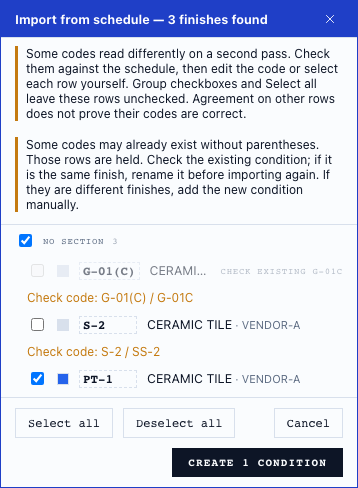
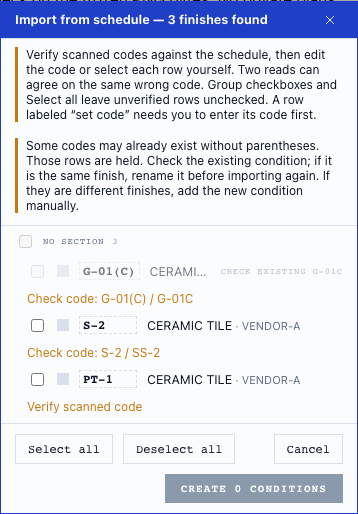
Require scanned-code review and surface omitted numeric rows (#500)

diff --git a/web/src/lib/scheduleRead.ts b/web/src/lib/scheduleRead.ts
@@ -21,6 +21,7 @@
 import { FOREIGN_HDR, extractTables, isNonFinishSchedule, readFinishMarquee, traceFinishMarquee, type Bbox, type GraphSpan, type MarqueeRead, type TableRow } from "./sheetgraph.ts";
 import { FINISH_SECTION_CATEGORY, type FinishSection } from "./finishSections.ts";
 import { normalizeNotUsed } from "./notUsed.ts";
+import { finishCodeOk } from "./finishCode.ts";
 import { repairKey } from "./ocr/wordClean.ts";
 import type { Category, CategorySource, ScheduleRow, Token } from "./scheduleRows.ts";
 
@@ -247,10 +248,55 @@ const overlapFrac = (a: Bbox, b: Bbox): number => {
  *  section (sheetgraph.ts ExtractOpts.resetAtBlankBand); the vector read
  *  never sets it. */
 export function readScheduleSpans(spans: GraphSpan[], opts?: { ocr?: boolean }): ScheduleRead {
-  return readOf(readFinishMarquee({ key: "crop", spans }, { ocr: !!opts?.ocr }), spans, !!opts?.ocr);
+  const parsed = readFinishMarquee({ key: "crop", spans }, { ocr: !!opts?.ocr });
+  const original = readOf(parsed, spans, !!opts?.ocr);
+  if (!opts?.ocr || !parsed || parsed.kind !== "table" || "refused" in original) return original;
+  return recoverNumericCodeRows(parsed, original, spans);
 }
 
-/** @internal Tests only: readScheduleSpans
+/** A numeric-only first read (88-2) is not a finish key, so the parser
+ * can absorb its description into the preceding row. A code-shaped second
+ * read can locate that row, but cannot establish its identity. Reparse only
+ * inside an already accepted finish table, keeping its existing keys, then
+ * expose each recovered row with an EMPTY code: the person must enter it.
+ * No alternate becomes a condition tag and no input span is rewritten. */
+function recoverNumericCodeRows(parsed: Extract<MarqueeRead, { kind: "table" }>, original: ScheduleRead, spans: GraphSpan[]): ScheduleRead {
+  const table = parsed.table;
+  const keyBoxes = table.rows.flatMap(r => r.cells[table.headers[0]] ? [r.cells[table.headers[0]].bbox] : []);
+  if (!keyBoxes.length) return original;
+  const left = Math.min(...keyBoxes.map(b => b[0]));
+  const right = Math.max(...keyBoxes.map(b => b[2]));
+  const inside = (s: GraphSpan, b: Bbox) => s.x + s.w / 2 >= b[0] && s.x + s.w / 2 <= b[2] && s.y + s.h / 2 >= b[1] && s.y + s.h / 2 <= b[3];
+  const candidates = spans.filter(s => /^[0-9]+[-.][0-9]+$/.test(s.str.trim())
+    && !!s.codeAlternate && finishCodeOk(s.codeAlternate) && /[A-Z]/i.test(s.codeAlternate)
+    && s.x + s.w / 2 >= left && s.x + s.w / 2 <= right
+    && inside(s, table.region));
+  if (!candidates.length) return original;
+  const candidateSet = new Set(candidates);
+  const reparsed = readFinishMarquee({ key: "crop", spans: spans.map(s => candidateSet.has(s) ? { ...s, str: s.codeAlternate! } : s) }, { ocr: true });
+  if (!reparsed || reparsed.kind !== "table") return original;
+  const read = readOf(reparsed, spans, true);
+  if ("refused" in read) return original;
+  const recovered = new Map<number, GraphSpan>();
+  reparsed.table.rows.forEach((r, i) => {
+    const box = r.cells[reparsed.table.headers[0]]?.bbox;
+    const candidate = box && candidates.find(s => inside(s, box));
+    if (candidate) recovered.set(i, candidate);
+  });
+  // Refuse a reparse that loses, reorders or renames an established identity.
+  const oldKeys = original.rows.map(r => r.finish_tag);
+  const keptKeys = read.rows.filter((_, i) => !recovered.has(i)).map(r => r.finish_tag);
+  if (!recovered.size || JSON.stringify(oldKeys) !== JSON.stringify(keptKeys)) return original;
+  return { ...read, rows: read.rows.map((row, i) => {
+    const candidate = recovered.get(i);
+    if (!candidate) return row;
+    const result = { ...row, finish_tag: "", suggested: false, code_checks: [{ first: candidate.str, second: candidate.codeAlternate! }] };
+    delete result.read_as;
+    return result;
+  }) };
+}
+
+/** @internal Tests only: the primary read (before numeric-row recovery)
  * plus how the marquee rules got there — the table's rows with their
  * provenance kept (`_y`, `_pass1`, `_pass1Key`, `_newRule`, `_ungluedFrom`),
  * the lines they consumed, and the per-line decisions. */
@@ -284,6 +330,7 @@ function readOf(r: MarqueeRead | null, spans: GraphSpan[], ocr: boolean): Schedu
   const rows = t.rows.map((x) => {
     const row = toRow(x, t.headers[0], { ocr });
     if (ocr) {
+      row.ocr_code = true;
       const fix = repairKey(x.cells[t.headers[0]]?.text ?? "", row.finish_tag);
       row.finish_tag = fix.key;
       if (fix.readAs) row.read_as = fix.readAs;

diff --git a/web/test/ocrCodeCheck.test.ts b/web/test/ocrCodeCheck.test.ts
@@ -91,3 +91,37 @@ test("removing a repeated clipped fragment keeps its unresolved warning on the s
   ]);
   assert.deepEqual(words, [{ str: "S-2", x: 8, y: 20, w: 34, h: 10, codeAlternate: "" }]);
 });
+
+test("stable wrong reads still require individual review, irrespective of confidence", async () => {
+  const [same] = await checkCodes([read("P-110")], {}, () => ({}), async () => [read("P-110")]);
+  assert.equal(same.codeAlternate, undefined);
+  const spans = build({ cols: MMC, items: [M(same.text, "CERAMIC TILE", "VENDOR-A", "GREY"), M("PT-1", "PAINT", "VENDOR-B", "WHITE")] });
+  const rows = readScheduleSpans(spans, { ocr: true }).rows;
+  assert.ok(rows.every(r => r.ocr_code && codeCheckShown(r, r.finish_tag)));
+  assert.deepEqual([...setPicked(new Set(), rows.map(r => r.finish_tag), k => !codeCheckShown(rows.find(r => r.finish_tag === k)!, k), true)], []);
+  assert.ok(rows.every(r => !('ocr_code' in rowToSeed(r, 0))));
+  assert.ok(readScheduleSpans(spans).rows.every(r => !r.ocr_code && !codeCheckShown(r, r.finish_tag)));
+});
+
+test("numeric misread inside a finish key column becomes an unnamed review row, never the alternate identity", () => {
+  const spans = build({ cols: MMC, items: [M("PT-1", "PAINT", "VENDOR-A", "WHITE"), M("88-2", "SOLID SURFACE", "VENDOR-B", "GREY"), M("CT-1", "CERAMIC TILE", "VENDOR-C", "BEIGE")] });
+  const numeric = spans.find(s => s.str === '88-2')!; numeric.codeAlternate = 'SS-2';
+  const before = structuredClone(spans);
+  const rows = readScheduleSpans(spans, { ocr: true }).rows;
+  assert.deepEqual(rows.map(r => r.finish_tag), ['PT-1', '', 'CT-1']);
+  assert.equal(rows[1].description, 'SOLID SURFACE');
+  assert.equal(rows[1].manufacturer, 'VENDOR-B');
+  assert.deepEqual(rows[1].code_checks, [{ first: '88-2', second: 'SS-2' }]);
+  assert.equal(rows[1].suggested, false);
+  assert.equal(evaluateTags([{ key: 'r', tag: rows[1].finish_tag }]).get('r')?.status, 'empty');
+  assert.deepEqual(spans, before);
+  assert.deepEqual(readScheduleSpans(spans).rows.map(r => r.finish_tag), ['PT-1', 'CT-1']);
+});
+
+test("numeric values in non-key cells and foreign schedules cannot create recovery rows", () => {
+  const spans = build({ cols: MMC, items: [M("PT-1", "PAINT", "88-2", "WHITE"), M("CT-1", "CERAMIC TILE", "VENDOR-C", "BEIGE")] });
+  spans.find(s => s.str === '88-2')!.codeAlternate = 'SS-2';
+  assert.deepEqual(readScheduleSpans(spans, { ocr: true }).rows.map(r => r.finish_tag), ['PT-1', 'CT-1']);
+  const foreign = [{ str: 'DOOR SCHEDULE', x: 100, y: -40, w: 180, h: 15 }, ...spans];
+  assert.equal(readScheduleSpans(foreign, { ocr: true }).rows.length, 0);
+});

diff --git a/web/bench/ocr-codes/worker.ts b/web/bench/ocr-codes/worker.ts
@@ -22,19 +22,20 @@ const fixtureSelect = document.querySelector<HTMLSelectElement>("#fixture")!;
 const root = createRoot(document.querySelector("#dialog")!);
 for (const fixture of truth.fixtures) { const option = document.createElement("option"); option.value = fixture.id; option.textContent = fixture.id; fixtureSelect.append(option); }
 const combinedOption = document.createElement("option"); combinedOption.value = "combined-guards"; combinedOption.textContent = "Combined selection guards (synthetic)"; fixtureSelect.append(combinedOption);
+const edgeOption = document.createElement("option"); edgeOption.value = "remaining-cases"; edgeOption.textContent = "Stable agreement and numeric omission (synthetic)"; fixtureSelect.append(edgeOption);
 const showRows = (rows: ScheduleRow[], existing = new Set<string>()) => root.render(React.createElement(ImportSchedulePanel, {
   key: fixtureSelect.value + performance.now(), rows, existing, palette: ["#2563eb", "#2f7d54"], startIndex: 0,
   onClose: () => root.render(null), onCreate: (created: ScheduleRow[]) => { output.dataset.created = JSON.stringify(created); root.render(null); },
 }));
 review.onclick = () => {
   const id = fixtureSelect.value;
-  if (id === "combined-guards") {
+  if (id === "combined-guards" || id === "remaining-cases") {
     // Separate constructed interaction case, not part of the 48-cell OCR score.
     const cell = (str: string, x: number, y: number) => ({ str, x, y, w: str.length * 8, h: 17 });
     const spans = [cell("CODE", 100, 0), cell("MATERIAL", 220, 0), cell("MANUFACTURER", 520, 0), cell("COLOR", 1000, 0)];
-    ["G-01(C)", "S-2", "PT-1"].forEach((tag, i) => {
+    (id === "remaining-cases" ? ["P-110", "88-2", "CT-1"] : ["G-01(C)", "S-2", "PT-1"]).forEach((tag, i) => {
       const y = (i + 1) * 38;
-      spans.push({ ...cell(tag, 100, y), ...(i < 2 ? { codeAlternate: i === 0 ? "G-01C" : "SS-2" } : {}) }, cell("CERAMIC TILE", 220, y), cell("VENDOR-A", 520, y), cell("GREY", 1000, y));
+      spans.push({ ...cell(tag, 100, y), ...(i === 1 ? { codeAlternate: "SS-2" } : i === 0 && id === "combined-guards" ? { codeAlternate: "G-01C" } : {}) }, cell("CERAMIC TILE", 220, y), cell("VENDOR-A", 520, y), cell("GREY", 1000, y));
     });
     const result = readScheduleSpans(spans, { ocr: true });
     output.dataset.schedule = JSON.stringify(result);

diff --git a/web/src/components/ImportSchedulePanel.jsx b/web/src/components/ImportSchedulePanel.jsx
@@ -168,7 +168,7 @@ export default function ImportSchedulePanel({ rows = [], existing = new Set(), p
 
         {hasCodeChecks && (
           <div role="note" id={checkId} style={{ fontSize: "var(--fs-s)", color: "var(--ink)", borderLeft: "3px solid var(--c-warning)", paddingLeft: 8, margin: "8px 14px" }}>
-            Some codes read differently on a second pass. Check them against the schedule, then edit the code or select each row yourself. Group checkboxes and Select all leave these rows unchecked. Agreement on other rows does not prove their codes are correct.
+            Verify scanned codes against the schedule, then edit the code or select each row yourself. Two reads can agree on the same wrong code. Group checkboxes and Select all leave unverified rows unchecked. A row labeled “set code” needs you to enter its code first.
           </div>
         )}
 
@@ -269,7 +269,7 @@ export default function ImportSchedulePanel({ rows = [], existing = new Set(), p
                       </label>
                       {codeCheckId && (
                         <span id={codeCheckId} style={{ flexBasis: "100%", fontSize: "var(--fs-s)", color: "var(--c-warning)" }}>
-                          Check code: {r.code_checks.map(({ first, second }) => second ? `${first} / ${second}` : `${first} / second read did not confirm`).join("; ")}
+                          {r.code_checks?.length ? `Check code: ${r.code_checks.map(({ first, second }) => second ? `${first} / ${second}` : `${first} / second read did not confirm`).join("; ")}` : "Verify scanned code"}
                         </span>
                       )}
                       {several ? <div style={{ marginLeft: "auto", display: "flex", gap: 10 }}>{guess}{readAs}{notUsed}</div> : guess || readAs || notUsed}

diff --git a/web/src/lib/scheduleEdit.ts b/web/src/lib/scheduleEdit.ts
@@ -178,8 +178,8 @@ export function readAsShown(row: { finish_tag: string; read_as?: string }, edite
   return !!row.read_as && normalizeTag(editedTag) === row.finish_tag;
 }
 
-/** Editing a code is an explicit correction. Until then, a disagreement
- * stays visible and bulk selection leaves the row for individual review. */
-export function codeCheckShown(row: { finish_tag: string; code_checks?: { first: string; second: string }[] }, editedTag: string): boolean {
-  return !!row.code_checks?.length && normalizeTag(editedTag) === normalizeTag(row.finish_tag);
+/** Editing a code is an explicit correction. Until then, a scanned identity
+ * stays visible (agreement is not proof of correctness) and bulk selection leaves the row for individual review. */
+export function codeCheckShown(row: { finish_tag: string; ocr_code?: true; code_checks?: { first: string; second: string }[] }, editedTag: string): boolean {
+  return !!(row.ocr_code || row.code_checks?.length) && normalizeTag(editedTag) === normalizeTag(row.finish_tag);
 }

diff --git a/web/src/lib/scheduleRows.ts b/web/src/lib/scheduleRows.ts
@@ -46,6 +46,8 @@ export type ScheduleRow = {
   /** the code as the reader saw it, before a $→S, O→0 or I→1 repair
    * ("PT-O1" of a row imported as PT-01) */
   read_as?: string;
+  /** A scanned identity needs human verification even when both reads agree. */
+  ocr_code?: true;
   /** Conflicting second reads in the code cell. Empty string = no second
    * code read. Review evidence only, never copied into the condition seed. */
   code_checks?: { first: string; second: string }[];

diff --git a/CHANGELOG.md b/CHANGELOG.md
@@ -11,11 +11,11 @@ Click **Pin** beside **Sheets** in the top toolbar, then click two corners aroun
 
 ## Unreleased
 
-- **Raster schedule imports flag unstable code readings (#500).** Short code-shaped text gets a second recognition pass on a horizontally widened crop. Disagreement shows both readings as **Check code**, starts the row unticked, and excludes it from group selection and **Select all** until the code is edited or the row is selected individually. The alternate is never substituted automatically. On the 48 public stress cells, all 10 native and 11 browser wrong reads were flagged; 2 native and 3 browser correct reads were also flagged, and the 12-code control stayed unflagged. Primary recognition accuracy is unchanged. Matching wrong reads, missing text and unread rows can still escape the check. [Measurements, timings, limitations and dialog screenshots](web/bench/ocr-codes/README.md#disagreement-check).
+- **Scanned schedule codes require individual review (#500).** A second recognition view highlights disagreements, but agreeing readings can both be wrong. All raster-import codes now start unchecked and stay out of bulk selection until edited; each can be accepted individually. Numeric-only misreads with code-shaped alternates inside a recognized finish table can recover a row as **set code**, keeping its product cells but requiring a human-entered identity. Alternates never become condition tags automatically. Native text-layer imports are unchanged. See [public regression evidence](web/bench/ocr-codes/README.md); exact recognition accuracy remains unchanged.
 - **Preserve parenthesized finish codes (#499).** Text and OCR schedule reads keep `G-01(C)` and `FT-02(E)` distinct from flat spellings and other suffixes. Re-import holds a possible older flat spelling for review, without renaming existing conditions or moving measurements.
 - **Public OCR code regression fixtures (#500).** Four invented schedules provide 48 expected code identities, fixed image hashes, cell-anchored scoring and native/browser-worker runners. The recorded baseline exposes high-confidence dropped-letter and punctuation errors; this adds reproducible evidence, not an OCR correction.
 
-- **On-device reads drop a table's ruling, and Import from schedule repairs and flags misread codes (#482, mcp 0.9.97).** The reader read a cell's rule beside a word as part of it (`[P-1 SAT`, `V2_`, `|ACT-2`), so a bordered code read as `P-1SAT` or wasn't a row at all, and Copy text and search carried the glyph. Every on-device line now loses a leading `|`, a trailing `_` or `|`, a leading `[` or trailing `]` with no partner in the line, and a pair around the whole line that starts with a code or has a space just inside it (`[P-1 SAT]`, `[ P-1 ]`); printed brackets such as `[E]`, `[SEE NOTE 3]` or `P-1 [NOTE 2]` stay; a line that was only ruling is dropped, and a minus sign, en dash or Unicode hyphen between two letters or digits becomes `-`, so `PT−01` no longer keys as PT01. Reads kept in the browser are cleaned when used, without reading again. On a raster schedule, Import from schedule repairs a `$` read for a leading S (`$SM-1` → SSM-1) and an O or I read for 0 or 1 after the code's hyphen, when the characters after the hyphen include a digit (`PT-O1` → PT-01, `G-O1(C)` → G-01C; `T-II` stays), and the row shows **read as PT-O1** with "Repaired from PT-O1; check the code against the schedule." until the code is edited to another one; a row read the usual way keeps a shared code over a repaired one. In MATERIAL, DESCRIPTION and PRODUCT, a lone `7` between two words, at least one with a letter, neither a dimension's `X` and the first not a word that introduces a number (`TYPE 7`, `NO. 7`), is read as `/` (`BASE 7 4 IN` → `BASE / 4 IN`), and `W7` after a floor word as `W/`, with no flag; a printed lone 7 there reads as `/` too. A dropped or absorbed letter (`ST-1` read as `S-1`) still imports with no flag. The reader's confidence was measured as a misread signal and isn't used: it didn't separate misread codes from correct ones (`web/scripts/measure-ocr-confidence.mjs`). Text-layer reads are unchanged.
+- **On-device reads drop a table's ruling, and Import from schedule repairs and flags misread codes (#482, mcp 0.9.97).** The reader read a cell's rule beside a word as part of it (`[P-1 SAT`, `V2_`, `|ACT-2`), so a bordered code read as `P-1SAT` or wasn't a row at all, and Copy text and search carried the glyph. Every on-device line now loses a leading `|`, a trailing `_` or `|`, a leading `[` or trailing `]` with no partner in the line, and a pair around the whole line that starts with a code or has a space just inside it (`[P-1 SAT]`, `[ P-1 ]`); printed brackets such as `[E]`, `[SEE NOTE 3]` or `P-1 [NOTE 2]` stay; a line that was only ruling is dropped, and a minus sign, en dash or Unicode hyphen between two letters or digits becomes `-`, so `PT−01` no longer keys as PT01. Reads kept in the browser are cleaned when used, without reading again. On a raster schedule, Import from schedule repairs a `$` read for a leading S (`$SM-1` → SSM-1) and an O or I read for 0 or 1 after the code's hyphen, when the characters after the hyphen include a digit (`PT-O1` → PT-01, `G-O1(C)` → G-01C; `T-II` stays), and the row shows **read as PT-O1** with "Repaired from PT-O1; check the code against the schedule." until the code is edited to another one; a row read the usual way keeps a shared code over a repaired one. In MATERIAL, DESCRIPTION and PRODUCT, a lone `7` between two words, at least one with a letter, neither a dimension's `X` and the first not a word that introduces a number (`TYPE 7`, `NO. 7`), is read as `/` (`BASE 7 4 IN` → `BASE / 4 IN`), and `W7` after a floor word as `W/`, with no flag; a printed lone 7 there reads as `/` too. Those repairs alone did not flag a dropped or absorbed letter (`ST-1` read as `S-1`); #500 above adds review for every scanned code. The reader's confidence was measured as a misread signal and isn't used: it didn't separate misread codes from correct ones (`web/scripts/measure-ocr-confidence.mjs`). Text-layer reads are unchanged.
 - **The on-device reader reads each word box on its own, reads large schedule boxes at full resolution, and recovers from a hang (#484).** The reader (#469) used PaddleOCR's defaults, which merged a row's boxes into one image and recognized them six at a time, so whole rows were misread or dropped and short standalone lines came back garbled. It now reads each box on its own, one at a time, for every on-device read. On the bundled demo's two sheets saved as image-only pages, the words found again from the text layer went from 83.6% to 94.5%, distinct finish tags found from 47 to 51 of 52 and room numbers from 83.5% to 96.1%; **Copy text** of the general notes went from 25 to 30 of 30 lines verbatim, and of a schedule block from 23 to 36 of 36. Time per page is about the same or less: in the app, the median of 4 reads per sheet went 41.7 → 40.0 s and 49.5 → 42.6 s (one of the earlier reads ran on a loaded machine and is included). A space inside a short box can go missing: on the demo schedule four size cells lost one (`2'x2'` twice, `2"x 2"`, `3"x 6"`). **Import from schedule** now reads a raster box as **Read page text** reads a page, in tiles at 216 DPI: a 60-row synthetic schedule that the single shrunken image read as no table now reads 60 of 60 rows (449 of 456 cells). The footer counts the rasters read (tiles and seam patches), a box past 64 tiles is refused before anything starts, and a column of finish codes with no readable header row gets its own message. A read the reader never answers now fails after a generous deadline with "The on-device reader stopped responding.", and the reader restarts from the files already in the browser; in a background tab the deadline counts only once the tab is visible. Reads saved before this change stay searchable and offer **Read again**. Known limits: header rows rotated 90° aren't read, and a revision cloud over the text can fuse the cells it crosses.
 - **Import from schedule reads NOT USED rows, codes with a word after them, and four- and five-letter codes (#483, mcp 0.9.96).** These rules apply to a drawn box: Import from schedule and the in-canvas agent's `read_schedule`. The sheet graph's whole-sheet index (`find_schedule`, `resolve_tag`) reads as before. A row the schedule marks NOT USED, NOT IN CONTRACT or N.I.C., after its code (`CPT-2 NOT USED`, `CPT-2: NOT USED`, `CPT-2, NIC`, `CPT-2 (N.I.C.)`) or as a whole cell, reads as its code and starts unticked, with a label showing the words as printed; select it to create the condition anyway. A NOT USED code line with nothing else on it is now a row; in a text-layer box the rows under it keep the heading above it (before, that line ended the section), while an on-device (raster) read still ends the section there. A code with one or two words of letters after it reads as the code, the words leading the description: `FTB-01 CUT (C)` reads as FTB-01, `CUT (C) — CERAMIC TILE BASE`, and a lone `P-1 SAT` as P-1. A row read before this change keeps its glued code when the split would give two rows the same code (`CPT-3 SAT` and `CPT-3 EGG` stay `CPT-3SAT` and `CPT-3EGG`; `P-1 SAT` beside a plain `P-1` stays `P-1SAT`). An alternate word (ALT, OPT, OPTION, ADD, DEDUCT) keeps the row's own code only when the code and word written together are a code the reader read before this change, which happens when the characters after the code's dash plus the word come to four or fewer (`CPT-1 ALT` stays `CPT-1ALT`). Otherwise the row reads as the plain code with the word leading its description: `PT-1 OPTION` reads as PT-1, `OPTION — PAINT`, ticked, and `CPT-10 ALT` as CPT-10. Beside a row printed with the same plain code, that row keeps the code and the alternate shows **duplicate**. Check rows printed with an alternate or option word. `LVT-1 A`, `WC-2 HD` and `SC-1 (C)` read as before. A code line the reader used to fold into the row above, as in a short table (CPT-1, RB-1, EPOX, PT-1, where EPOX's line went into RB-1's description), now reads as its own row when it is spaced like a row; a line closer than 1.6 times the text height, or three-quarters of the table's usual line spacing, below the line above it is still a wrapped line. A four- or five-letter code with no number (`EPOX`, `CONC`, `SEAL`) is read when the header or a read row is above it, it fills two or more other columns, and a row with a numbered code comes after it; otherwise a notice above the rows names it ("1 code wasn't read: EPOX. A four- or five-letter code with no number is read only when the header or a read row is above it, it fills two or more other columns, and a row with a numbered code, like CPT-1, comes after it — if it's a finish, add it as a condition yourself."). For drawn boxes this supersedes the #468 and #472 entries' "a letters-only code of four or more letters (`EPOX`) is not read" for four- and five-letter codes; codes of six or more letters still aren't read or named, and the whole-sheet index still reads none of them. A box whose only finish lines are codes it didn't read opens the dialog titled "Import from schedule — no rows read", with the notice and a **Close** button. When two rows share a code, the row read before this change keeps it over a newly read row, and both over a NOT USED row; the other shows **duplicate**—click the code to rename it. A group's checkbox shows a dash when some of its rows are ticked; clicking it ticks every row in the group, NOT USED rows included. The base guess from a row's words: INTEGRAL, SANITARY and FLASH cove base phrases name nothing, and a floor row that names its base after W/ or WITH (`EPOXY FLOORING W/ 4" COVE BASE`) isn't a base row. `read_schedule` rows can carry `unticked_reason: "not-used"` with `not_used_text`, and `key_rule: "extended"` (a row read by a newer rule—check it with `view_region`); the result can carry `skipped`, and a `note` when it has no rows. On-device (raster) reads keep two rules off: a code line the read merged into the row above isn't split out, so in a short table a NOT USED or word-after code line can stay part of the row above (its code not read, its text in that row's description), and four- and five-letter codes aren't read, so the notice never appears on them. In tests that lay the same tables out with word boxes measured from the on-device reader (shorter text, cells shifted between columns), both rules added rows and notices the text-layer read of the same layout doesn't have. Re-importing a table whose glued codes now split can create a new code beside an existing condition (`P-1` beside `P-1SAT`); the dialog doesn't flag it. Known limits are listed in the user guide's [Import from schedule](docs/USER_GUIDE.md#import-from-schedule) section; among them, an abbreviation legend directly below the table can list its four- and five-letter lines as not read, and a two-cell line among read rows (a legend line, `LOBBY | VCT | RB | PT`, a title-block `DATE` line above a numbered code) can read as a row.
 - **Remove from project frees the deleted Drive file's records (#492).** In a Drive project, deleting a plan dropped its search entries and OCR statuses but kept its loaded PDF document, text-layer flags, page count and thumbnail records; it now clears them as closing a PDF does.

diff --git a/web/bench/ocr-codes/README.md b/web/bench/ocr-codes/README.md
@@ -80,18 +80,19 @@ them. The disagreement check below flags unstable readings without changing prim
 The production schedule-box reader now requests a second recognition view of
 short code-shaped boxes: the same detected crop stretched horizontally by 2,
 using the same recognizer and models. Detection and the primary text, geometry
-and confidence are unchanged. Only a disagreement is carried to the import
-reader. A code-cell disagreement starts that row unchecked, shows both readings,
-and keeps **Select all** and group checkboxes from selecting it. The user can
+and confidence are unchanged. Disagreement metadata is carried to the import
+reader. Every scanned code now starts unchecked and requires individual review
+or correction, including a clean control or a stable wrong reading. A disagreement
+also shows both readings. **Select all** and group checkboxes skip unverified rows. The user can
 correct its code or select that row individually. The alternate is never chosen
 automatically: one fixture's `WWC` rereads as `WC`, and both are wrong.
 
 | Check | Native | Browser worker |
 |---|---:|---:|
 | Primary exact cells (unchanged) | 38/48 | 37/48 |
-| Wrong cells flagged / wrong cells | 10/10 | 11/11 |
-| Wrong cells still unflagged in this set | 0 | 0 |
-| Correct cells flagged for review | 2/38 | 3/37 |
+| Wrong cells with a disagreement / wrong cells | 10/10 | 11/11 |
+| Wrong cells without a disagreement in this set | 0 | 0 |
+| Correct cells with a disagreement | 2/38 | 3/37 |
 | Clean Arial control exact / flagged | 12/12 / 0 | 12/12 / 0 |
 
 Evidence: [native checked run](checked-native.json),
@@ -103,8 +104,8 @@ all four tiny images. A word-level flag does not prove that its row imports.
 The candidate check accepts short letter/digit code shapes (including a single
 surviving letter and numeric misreads), at most 16 non-space characters, up to
 1024 × 256 pixels. Prose, merged code-and-description boxes and missing detections
-are not recovered. A consistently wrong second reading remains unflagged.
-Agreement is not verification. Page OCR, cached text, Copy text, native text-layer
+are not recovered. A consistently wrong second reading has no disagreement marker, but its
+import row still requires individual review. Agreement is not verification. Page OCR, cached text, Copy text, native text-layer
 imports and the agent's text-layer reader do not request this pass.
 
 Warm browser runs over all four images took a median **3.66 → 4.39 seconds**
@@ -140,10 +141,10 @@ Arial Narrow 100 DPI are placed under invented CODE / MATERIAL / MANUFACTURER /
 COLOR spans. Code readings and disagreement metadata are unchanged; headings,
 descriptions and layout are constructed. This exercises parser-to-dialog
 behavior separately from recognition, not table extraction from the PNG.
-The 12 displayed rows include four review flags (three wrong codes and one
-correct code). Bulk selection leaves those four unchecked.
+All 12 displayed rows require review; four also show disagreeing readings
+(three wrong codes and one correct code). Bulk selection leaves all 12 unchecked.
 
-<img src="dialog-desktop.png" alt="Twelve invented rows with four Check code warnings left unchecked after bulk selection" width="562">
+<img src="dialog-desktop.png" alt="Twelve scanned code rows left unchecked after bulk selection" width="562">
 <img src="dialog-mobile.png" alt="The same code-review dialog at a 390-pixel viewport with no horizontal overflow" width="358">
 
 ### Combined import safeguards (#499 + #500)
@@ -152,33 +153,31 @@ PR #511 now follows #510, which follows the public fixtures in #509. The import
 dialog conflict is resolved with both notices and both selection guards present.
 The browser reproduction command above also runs a separate constructed
 three-row case. An existing `G-01C` keeps incoming `G-01(C)` locked even though
-that row also has an OCR disagreement. **Select all** picks only clean `PT-1`.
-Individually accepting uncertain `S-2` creates `S-2` and `PT-1`, with no duplicate
+that row also has an OCR disagreement. **Select all** picks none.
+Individually accepting `S-2` and `PT-1` creates those two, with no duplicate
 `G-01(C)`. Both notices fit at 390 px with no horizontal overflow. This interaction
 case uses invented spans and disagreement metadata; it is not an OCR measurement.
 
-[Combined assertions](combined-ui-check.json). The full combined web check
-passes with 3,171 passed / 3 skipped. Render tests also check that skipped-code,
+[Current combined assertions](ui-check.json). [Earlier combined assertions](combined-ui-check.json)
+record the previous disagreement-only selection behavior. Render tests also check that skipped-code,
 OCR and historical-identity notices each keep their own accessible description.
 
 <img src="combined-guards.png" alt="A historical spelling stays locked while a separate uncertain OCR row is individually accepted" width="560">
 <img src="combined-guards-mobile.png" alt="Both import safeguard notices and three invented rows fit at a 390-pixel viewport" width="358">
 
-### Real-schedule spot check and remaining work
+### Fresh real-schedule spot check
 
-Two earlier private schedule crops were read locally through the production
-216-DPI tiled box path. All 232 primary words (after the existing border cleanup),
-their boxes/confidences, and the eight imported code identities stayed unchanged.
-One crop still returned no table because of its existing header/layout limit.
-The other returned eight rows; the known `WWC` misread now carries a review flag.
-The known `88-2` misread rereads as `SS-2` and is flagged at word level, but the
-numeric-only primary code is still omitted by the table reader. That omission
-is not fixed here. These are local spot checks, not a public reproducible corpus;
-no private pixels, document text, project names or file paths are included.
-
-The next work for #500 is recovering unread rows without inventing identities,
-and finding signals for wrong reads that remain stable across views. This change
-addresses unflagged disagreement; it does not close every failure in #500.
+Two private schedule crops were reread locally through the production 216-DPI
+tiled box path after the remaining-case changes. The first still returns no table
+because of its existing header/layout limit. The second now returns **9 review
+rows instead of 8**: the numeric-only omitted code becomes an unnamed row with
+its product cells and both readings. The eight established identities remain,
+and every parsed raster code requires individual review. Primary recognition
+remains 164 + 68 words; this is a parsing/acceptance safeguard, not an OCR accuracy
+claim. [Aggregate results](private-aggregate.json) contain no private content. Private
+pixels, document text, project names and file paths stay local.
+These two spot checks are not a public reproducible corpus; use the invented
+regressions below to reproduce the failure classes.
 
 ## Image provenance
 
@@ -198,3 +197,35 @@ node scripts/make-ocr-code-fixtures.mjs /tmp/ocr-regenerated
 All four hashes matched when regenerated on the capture machine. Another OS
 or font version can draw different pixels; retain the frozen fixtures for
 comparisons, or review a deliberate fixture revision with new hashes.
+
+## Remaining edge cases: stable agreement and dropped numeric rows
+
+All parsed raster codes now require individual verification, including the 12/12
+clean control. This adds review work; it does **not** improve primary recognition
+accuracy. Native text-layer rows keep their original default/bulk selection.
+The public browser runner tests a constructed stable `P-110` agreement: Select all
+cannot select it; an individual check can. This is an explicit acceptance by the
+person, not evidence that `P-110` was read correctly.
+
+A numeric-only misread (`88-2`, second read `SS-2`) inside an accepted finish
+key column can identify an omitted row. A guarded reparse must preserve every
+existing key in order. The recovered row retains its product cells and shows
+both readings, but its identity is empty (**set code**) and its checkbox disabled.
+Only a person's edit supplies the identity. A Node test excludes numeric values
+in manufacturer cells and refuses a door schedule. No numeric row is recovered
+without a usable second reading or recognized table. Missing detections and
+unreadable headers remain limitations.
+
+Reproduce the focused lifecycle of a code through parsing and selection:
+
+```sh
+node --import tsx --test test/ocrCodeCheck.test.ts test/importSchedulePanel.test.ts
+npx vite build --config bench/ocr-codes/vite.config.mjs
+PLAYWRIGHT_MODULE=/path/to/playwright-core/index.mjs BROWSER_PATH=/path/to/chromium \
+  node scripts/verify-ocr-code-dialog.mjs bench/ocr-codes
+```
+
+[Remaining-case screenshot](remaining-cases.png) and [browser assertions](ui-check.json)
+exercise the actual import dialog. The table geometry and stable-agreement case
+are constructed, not claims about pixel recognition. The four frozen image
+fixtures continue to measure the production worker independently.

diff --git a/docs/USER_GUIDE.md b/docs/USER_GUIDE.md
@@ -408,7 +408,7 @@ Each created condition gets the next color from the palette, in row order, and a
 
 **Misreads the raster read repairs.** The reader often reads a table's ruling beside a word as part of it. A leading `|` and a trailing `_` or `|` are removed from each line it reads, and so are a leading `[` and a trailing `]` that the line has no partner for, and a pair around the whole line that starts with a code (`[P-1 SAT]`) or has a space just inside it (`[ P-1 ]`): printed brackets, such as `[E]`, `[SEE NOTE 3]` or `P-1 [NOTE 2]`, stay. A minus sign, en dash or Unicode hyphen between two letters or digits becomes `-`, so `PT−01` reads as PT-01. Three misreads in a code are repaired: a `$` read for a leading S (`$SM-1` imports as SSM-1, `$SM-1 (C)` as SSM-1C), and an O read for 0 or an I read for 1 after the code's hyphen (`PT-O1` imports as PT-01, `G-O1(C)` as G-01C), when the characters after the hyphen include at least one digit. Each part of a compound code is repaired on its own (`CPT-O1/VIN-1` imports as CPT-01/VIN-1). A repaired row shows **read as PT-O1** beside it, with the code as the reader saw it; hold the pointer over it for "Repaired from PT-O1; check the code against the schedule." Check the code against the sheet. The flag stays while the code is the repaired one, in any case or spacing, and hides once you edit the code to another code. When a repaired row and a row read the usual way share a code, the row read the usual way keeps it. In the MATERIAL, DESCRIPTION and PRODUCT cells, a `/` the reader read as `7` is put back without a flag: a lone `7` with a word on each side becomes `/` when at least one of those words has a letter, neither is a dimension's `X`, and the word before it doesn't introduce a number (NO, #, TYPE, SERIES, CLASS, GRADE, MODEL, PHASE, SECTION or GAUGE) (`BASE 7 4 IN 7 BLACK` reads as `BASE / 4 IN / BLACK`; `4 X 7 IN` stays a size, and `TYPE 7 TILE` stays as printed), and `W7` after a floor word such as FLOORING, EPOXY or CARPET in the same cell becomes `W/`, so `EPOXY FLOORING W7` followed by a cove base names the floor's own base, not a base row. A `7` printed alone between two words in those cells, one of them with a letter, is read as `/` too.
 
-**Codes that disagree on a second read.** Raster schedule imports reread short code-shaped text using a wider view of the same ink. When the readings differ, the row shows **Check code: S-2 / SS-2** (or **second read did not confirm**), starts unticked, and stays out of group selection and **Select all**. Compare it with the sheet, then click its code to correct it or tick that row individually to accept it. Editing to a different code clears the warning; changing only its case or spacing does not. The second reading is not chosen automatically. The extra read takes longer. A correct code can also be flagged, and two agreeing readings can both be wrong. This check applies to raster schedule imports; it does not reread saved page text, Copy text, text-layer imports or the agent's text-layer reader.
+**Verify scanned codes.** Every raster schedule row starts unticked with **Verify scanned code**, even when two readings agree: they can agree on the same wrong identity. Compare each code with the sheet, then click its code to correct it or tick that row individually to accept it. **Select all** and group checkboxes leave unverified scanned rows unchecked. Editing to a different code clears its review flag; changing only case or spacing does not. Short code-shaped text also gets a second, wider reading. Disagreements show **Check code: S-2 / SS-2**, or **second read did not confirm**. A numeric-only misread such as `88-2` can hide a row; when a code-shaped second read locates it inside an already recognized finish table, that row appears as **set code** with its description and both readings. Its checkbox is disabled until you enter a code. The alternate is never selected automatically. This cannot recover missing detections, unreadable headers, or every malformed row. Text-layer imports keep their existing selection behavior; saved page text, Copy text and the agent's text-layer reader are unchanged.
 
 Known limits of the raster read:
 

diff --git a/README.md b/README.md
@@ -380,9 +380,11 @@ marks NOT USED left unticked, and, on a box with a text layer, a four- or five-l
 couldn't read named in a notice—and you approve what becomes a condition. The product spec,
 the schedule's remarks included, rides along as report columns. Parenthesized codes such as
 `G-01(C)` keep their suffix; re-import holds a possible older `G-01C` condition for review.
-On raster imports, short codes get a second read; a disagreement shows **Check code** and
-leaves the row out of group selection and **Select all** until you edit its code or select
-it individually. Agreement does not prove a code is correct.
+On raster imports, every scanned code starts unchecked and requires individual
+review or correction; two OCR reads can agree on the same wrong identity.
+Short codes also get a second read, with disagreements shown as **Check code**.
+A numeric misread recovered inside a recognized finish table appears as **set code**;
+you must enter its code before creating it. See the [public OCR evidence](web/bench/ocr-codes/README.md).
 
 **Supporting Materials** is the layer most takeoff tools punt on: per condition, a labor type
 and a subfloor type, plus the consumables that actually go on the order—adhesive, sealer,
